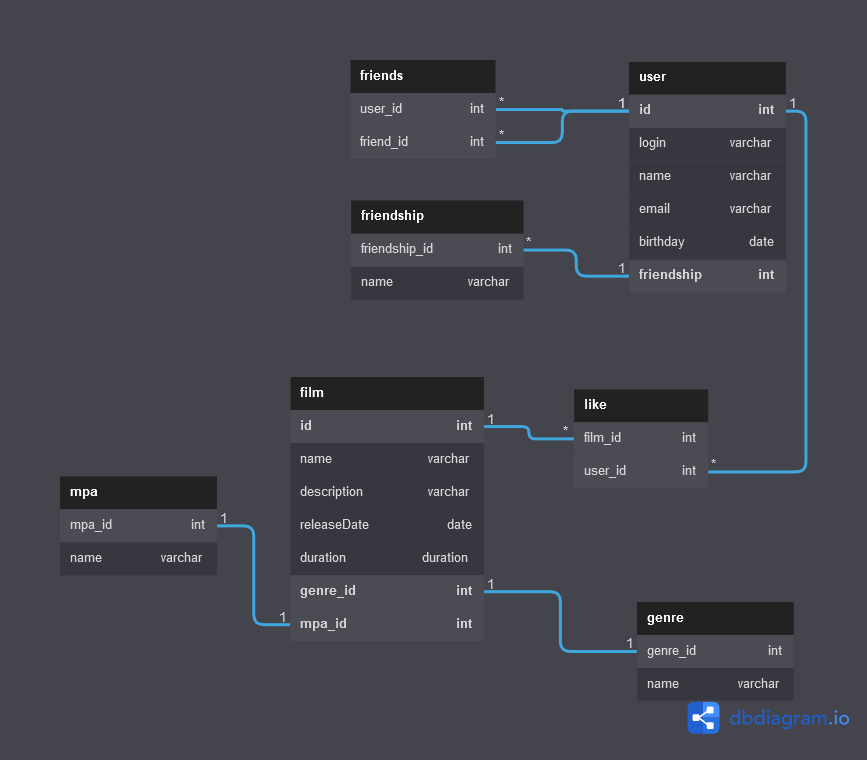
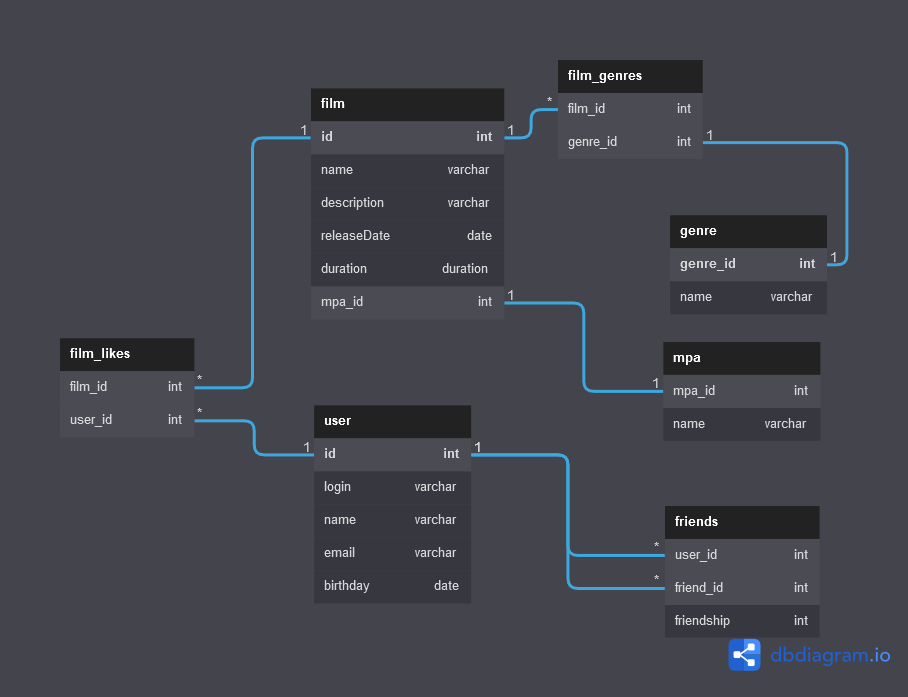
fix: исправил согласно ТЗ №10

diff --git a/README.md b/README.md
@@ -12,10 +12,13 @@
 
 ![Схема БД](Схема БД.png)
 
-##### Пояснение 
+
 ##### Запросы:
 
 [Сетевые запросы, протестируйте его с помощью Postman](https://github.com/yandex-praktikum/java-filmorate/blob/add-friends-likes/postman/sprint.json)
+##### Пояснение:
+##### [SQL](код%20БД.txt)
+##### [запросы SQL](Примеры%20запросов.txt)
 
 Приложение написано на Java. Пример кода:
 ```java
